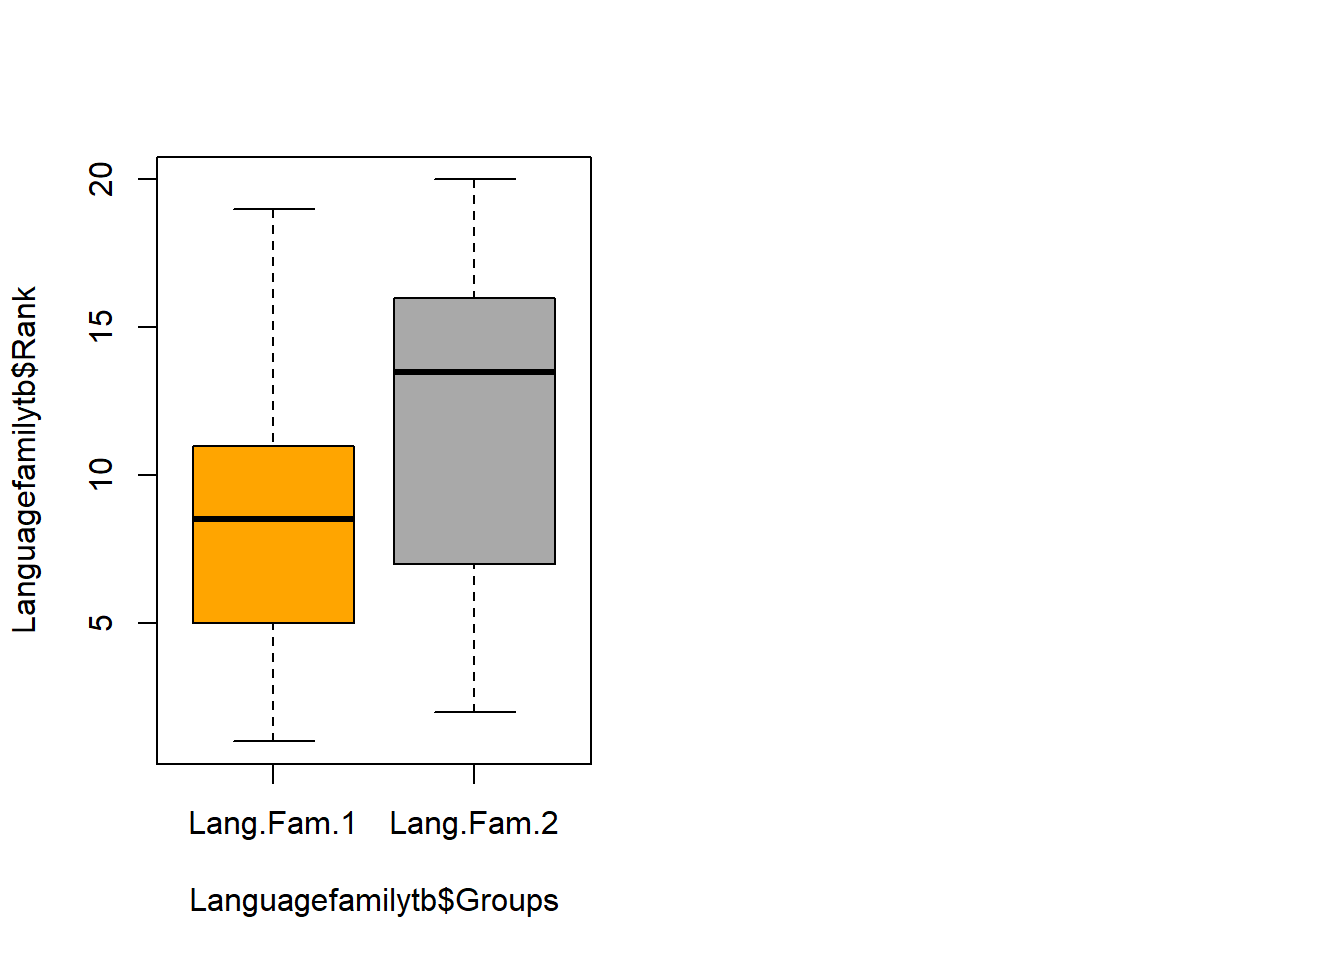
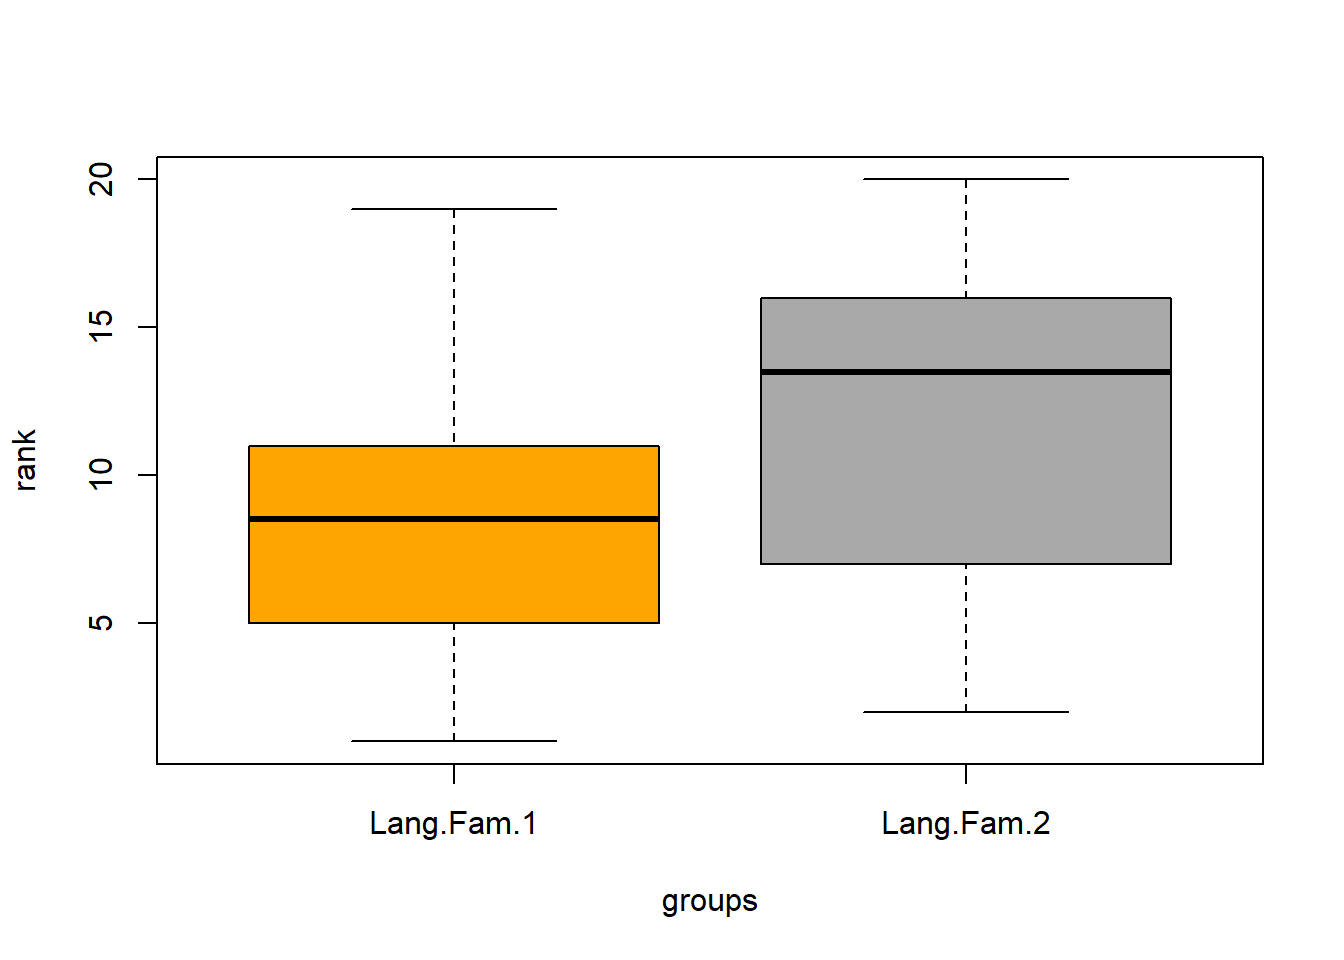
basic stats full update

diff --git a/basicstatz.html b/basicstatz.html
@@ -1,18 +1,17 @@
 <!DOCTYPE html>
 
-<html xmlns="http://www.w3.org/1999/xhtml">
+<html>
 
 <head>
 
 <meta charset="utf-8" />
-<meta http-equiv="Content-Type" content="text/html; charset=utf-8" />
 <meta name="generator" content="pandoc" />
 <meta http-equiv="X-UA-Compatible" content="IE=EDGE" />
 
 
 <meta name="author" content="UQ SLC Digital Team" />
 
-<meta name="date" content="2020-04-15" />
+<meta name="date" content="2020-08-07" />
 
 <title>Basic Inferential Statistics with R</title>
 
@@ -239,6 +238,7 @@ $(document).ready(function () {
   border: none;
   display: inline-block;
   border-radius: 4px;
+  background-color: transparent;
 }
 
 .tabset-dropdown > .nav-tabs.nav-tabs-open > li {
@@ -369,7 +369,7 @@ div.tocify {
       <a href="introquant.html">Introduction To Quantitative Reasoning</a>
     </li>
     <li>
-      <a href="basicquant.html">Basic Concepts In Quantitative Reasoning</a>
+      <a href="basicquant.html">Basic Concepts In Quantitative Research</a>
     </li>
   </ul>
 </li>
@@ -411,7 +411,7 @@ div.tocify {
       <a href="basicgraphs.html">Visualizing Data with R</a>
     </li>
     <li>
-      <a href="maps.html">Geo-Spatial Data Visualization in R</a>
+      <a href="maps.html">Creating maps using R</a>
     </li>
     <li>
       <a href="motion.html">Motion Charts in R</a>
@@ -513,7 +513,7 @@ div.tocify {
 
 <h1 class="title toc-ignore">Basic Inferential Statistics with R</h1>
 <h4 class="author">UQ SLC Digital Team</h4>
-<h4 class="date">2020-04-15</h4>
+<h4 class="date">2020-08-07</h4>
 
 </div>
 
@@ -521,16 +521,12 @@ div.tocify {
 <p><img src="images/uq1.jpg" width="100%" /></p>
 <div id="introduction" class="section level1">
 <h1><span class="header-section-number">1</span> Introduction</h1>
-<p>This tutorial introduces basic statistical techniques for inferential statistics for hypothesis testing with R. The entire code for the tutorial can be downloaded <a href="https://slcladal.github.io/rscripts/basicstatzrscript.r">here</a>. The first part of this tutorial focuses on basic non-parametric tests such as Fisher’s Exact test while the second part introduces parametric tests such as the t-test.</p>
-<p>Non-Parametric Tests do not require the data (or the errors of the dependent variable, to be more precise) to be distributed normally. Tests that do not require normal data are referred to as <em>non-parametric tests</em> (test that require the data to be distributed normally are analogously called <em>parametric tests</em>). We focus on non-parametric tests first as this family of test in frequently used in linguistics. In the later part of this section, we will focus on regression modelling where assumptions of about the data become more important.</p>
+<p>This tutorial introduces the basic statistical techniques for inferential statistics for hypothesis testing with R. The entire code for the tutorial can be downloaded <a href="https://slcladal.github.io/rscripts/basicstatzrscript.r">here</a>. The first part of this tutorial focuses on basic non-parametric tests such as Fisher’s Exact test while the second part introduces parametric tests such as the t-test.</p>
+<p>Non-Parametric Tests do not require the data (or the errors of the dependent variable, to be more precise) to be distributed normally. Tests that do not require normal data are referred to as <em>non-parametric tests</em> (tests that require the data to be distributed normally are analogously called <em>parametric tests</em>). We focus on non-parametric tests first, as this family of test in frequently used in linguistics. In the later part of this section, we will focus on regression modelling where assumptions of about the data become more important.</p>
 <p><strong>Preparation and session set up</strong></p>
 <p>As all visualizations in this tutorial rely on R, it is necessary to install R and RStudio. If these programs (or, in the case of R, environments) are not already installed on your machine, please search for them in your favorite search engine and add the term “download”. Open any of the first few links and follow the installation instructions (they are easy to follow, do not require any specifications, and are pretty much self-explanatory).</p>
 <p>In addition, certain <em>packages</em> need to be installed from an R <em>library</em> so that the scripts shown below are executed without errors. Before turning to the code below, please install the packages by running the code below this paragraph. If you have already installed the packages mentioned below, then you can skip ahead ignore this section. To install the necessary packages, simply run the following code - it may take some time (between 1 and 5 minutes to install all of the libraries so you do not need to worry if it takes some time).</p>
-<pre class="r"><code># clean current workspace
-rm(list=ls(all=T))
-# set options
-options(stringsAsFactors = F)
-# install libraries
+<pre class="r"><code># install libraries
 install.packages(c(&quot;stringr&quot;, &quot;VGAM&quot;, &quot;fGarch&quot;))</code></pre>
 <p>Once you have installed R, R-Studio, and have also initiated the session by executing the code shown above, you are good to go.</p>
 </div>
@@ -567,19 +563,21 @@ kable(coolmatrix, caption = &quot;Co-occurrence of cool with adverbs.&quot;)</co
 </table>
 <p>To perform a Fisher’s Exact test, we first need to create a table with these results in “R”.</p>
 <pre class="r"><code># create table
-coolmx &lt;- matrix(c(5, 17, 40, 41),
-                 # number of rows of the table
-                 nrow = 2,
-                 # def. dimension names
-                 dimnames = list(Adverbs = c(&quot;truly&quot;, &quot;very&quot;),
-                                 Adjectives = c(&quot;cool&quot;, &quot;other adjective&quot;)))
+coolmx &lt;- matrix(
+  c(5, 17, 40, 41),
+  nrow = 2, # number of rows of the table
+  # def. dimension names
+  dimnames = list(
+    Adverbs = c(&quot;truly&quot;, &quot;very&quot;),
+    Adjectives = c(&quot;cool&quot;, &quot;other adjective&quot;))
+)
 # inspect resulting table
 coolmx</code></pre>
 <pre><code>##        Adjectives
 ## Adverbs cool other adjective
 ##   truly    5              40
 ##   very    17              41</code></pre>
-<p>Once we have the created a matrix with these numbers, we can perform the Fisher’s Exact test to see if “very” and “truly” differ in their preference to co-occur with “cool.”</p>
+<p>Once we have the created a matrix with these numbers, we can perform the Fisher’s Exact test to see if “very” and “truly” differ in their preference to co-occur with “cool”. The null hypothesis is that there is no difference between the adverbs.</p>
 <pre class="r"><code># perform test
 fisher.test(coolmx)</code></pre>
 <pre><code>## 
@@ -593,7 +591,7 @@ fisher.test(coolmx)</code></pre>
 ## sample estimates:
 ## odds ratio 
 ##  0.3048159</code></pre>
-<p>The results of the Fisher’s Exact test show that the p-value is lower than .05 and that we are therefor justified in assuming that “very” and “truly” differ in their collocational preferences to co-occur with “cool.”</p>
+<p>The results of the Fisher’s Exact test show that the p-value is lower than .05, which means we reject the null hypothesis, and we are therefore justified in assuming that “very” and “truly” differ in their collocational preferences to co-occur with “cool.”</p>
 </div>
 <div id="ranking-and-sign-based-non-parametric-tests" class="section level1">
 <h1><span class="header-section-number">3</span> Ranking and Sign-Based Non-Parametric Tests</h1>
@@ -601,16 +599,15 @@ fisher.test(coolmx)</code></pre>
 </div>
 <div id="mann-whitney-u-test-wilcoxon-rank-sum-test" class="section level1">
 <h1><span class="header-section-number">4</span> Mann-Whitney U-Test / Wilcoxon Rank Sum-Test</h1>
-<p>It is a rather frequent case that numeric depend variables are transformed or converted into ordinal variables because the distribution of residuals does not allow the application of a linear regression. Because we are dealing with ordinal data, the application of a chi-square test is unwarranted and we need to use another test. In such cases, the Mann-Whitney U-test (also called Wilcoxon rank sum-test) can be used.</p>
-<p>The Mann-Whitney U-test can also be used if the groups under investigation represent identical participants that are tested under two conditions.</p>
-<p>Imaging we wanted to determine if two language families differed with respect to the size of their phoneme inventories. You have already ranked the inventory sizes and would now like to now if language family correlates with inventory size. To answer this question, you create the table shown below.</p>
+<p>It is a rather frequent case that numeric depend variables are transformed or converted into ordinal variables because the distribution of residuals does not allow the application of a linear regression. Because we are dealing with ordinal data, the application of a chi-square test is unwarranted and we need to use another test. In such cases, the Mann-Whitney U-test (also called Wilcoxon rank sum-test) can be used. The Mann-Whitney U-test can also be used if the groups under investigation represent identical participants that are tested under two conditions.</p>
+<p>Imagine we wanted to determine if two language families differed with respect to the size of their phoneme inventories. You have already ranked the inventory sizes and would now like to now if language family correlates with inventory size. To answer this question, you create the table shown below.</p>
 <pre class="r"><code># create table
-Rank &lt;- c(1,3,5,6,8,9,10,11,17,19, 2,4,7,12,13,14,15,16,18,20)
-Groups &lt;- c(rep(&quot;Lang.Fam.1&quot;, 10), rep(&quot;Lang.Fam.2&quot;, 10))
-Languagefamilytb &lt;- data.frame(Groups, Rank)
+rank &lt;- c(1,3,5,6,8,9,10,11,17,19, 2,4,7,12,13,14,15,16,18,20)
+groups &lt;- c(rep(&quot;Lang.Fam.1&quot;, 10), rep(&quot;Lang.Fam.2&quot;, 10))
+language_family_tb &lt;- data.frame(groups, rank)
 # inspect table
-Languagefamilytb</code></pre>
-<pre><code>##        Groups Rank
+language_family_tb</code></pre>
+<pre><code>##        groups rank
 ## 1  Lang.Fam.1    1
 ## 2  Lang.Fam.1    3
 ## 3  Lang.Fam.1    5
@@ -633,126 +630,125 @@ Languagefamilytb</code></pre>
 ## 20 Lang.Fam.2   20</code></pre>
 <p>We will also briefly inspect the data visually using a box plot.</p>
 <pre class="r"><code># inspect data
-par(mfrow=c(1,2))
-boxplot(Languagefamilytb$Rank ~ Languagefamilytb$Groups, col = c(&quot;orange&quot;, &quot;darkgrey&quot;), main = &quot;&quot;)
-par(mfrow=c(1,1))</code></pre>
+boxplot(rank ~ groups, col = c(&quot;orange&quot;, &quot;darkgrey&quot;), main = &quot;&quot;, data = language_family_tb)</code></pre>
 <p><img src="basicstatz_files/figure-html/mwu2-1.png" width="672" /></p>
 <p>To use Mann-Whitney U test, the dependent variable (Rank) must be ordinal and independent variable (Group) must be a binary factor. We briefly check this by inspecting the structure of the data.</p>
 <pre class="r"><code># perform test
-str(Languagefamilytb) </code></pre>
+str(language_family_tb)</code></pre>
 <pre><code>## &#39;data.frame&#39;:    20 obs. of  2 variables:
-##  $ Groups: Factor w/ 2 levels &quot;Lang.Fam.1&quot;,&quot;Lang.Fam.2&quot;: 1 1 1 1 1 1 1 1 1 1 ...
-##  $ Rank  : num  1 3 5 6 8 9 10 11 17 19 ...</code></pre>
-<p>As the variables are what we need them to be, we can now perform the Mann-Whitney U test on the table.</p>
+##  $ groups: chr  &quot;Lang.Fam.1&quot; &quot;Lang.Fam.1&quot; &quot;Lang.Fam.1&quot; &quot;Lang.Fam.1&quot; ...
+##  $ rank  : num  1 3 5 6 8 9 10 11 17 19 ...</code></pre>
+<p>As the variables are what we need them to be, we can now perform the Mann-Whitney U test on the table. The null hypothesis is that there is no difference between the 2 groups.</p>
 <pre class="r"><code># perform test
-wilcox.test(Languagefamilytb$Rank ~ Languagefamilytb$Groups) </code></pre>
+wilcox.test(language_family_tb$rank ~ language_family_tb$groups) </code></pre>
 <pre><code>## 
-##  Wilcoxon rank sum test
+##  Wilcoxon rank sum exact test
 ## 
-## data:  Languagefamilytb$Rank by Languagefamilytb$Groups
+## data:  language_family_tb$rank by language_family_tb$groups
 ## W = 34, p-value = 0.2475
 ## alternative hypothesis: true location shift is not equal to 0</code></pre>
-<p>The results of the Wilcoxon rank sum test tell use that the two language families to not differ significantly with respect to their phoneme inventory size as the p-value is greater than .05.</p>
+<p>Since the p-value is greater than 0.05, we fail to reject the null hypothesis. The results of the Wilcoxon rank sum test tell us that the two language families do not differ significantly with respect to their phoneme inventory size.</p>
 <p>The Wilcoxon rank sum test can also be used with continuity correction. A continuity correction is necessary when both variables represent numeric values that are non-normal. In the following example, we want to test if the reaction time for identifying a word as real is correlated with its token frequency.</p>
 <p>For this example, we generate data is deliberately non-normal.</p>
 <pre class="r"><code># load librarieslibrary(VGAM)
 library(fGarch)
 # generate non-normal skewed numeric data
-r=.1 
-Frequency=rsnorm(100,0,2,4)
-NormalReaction=rsnorm(100,0,2,4)
-ReactionTimes=Frequency*r+NormalReaction*sqrt(1-r^2)
+r &lt;- .1 
+frequency &lt;- rsnorm(100,0,2,4)
+normal_reaction &lt;- rsnorm(100,0,2,4)
+reaction_times &lt;- frequency*r+normal_reaction*sqrt(1-r^2)
 # inspect data
 par(mfrow=c(1,2))
-boxplot(Frequency, col = &quot;orange&quot;, main = &quot;Frequency&quot;)
-boxplot(ReactionTimes, col = &quot;darkgrey&quot;, main = &quot;Reaction Times&quot;)</code></pre>
+boxplot(frequency, col = &quot;orange&quot;, main = &quot;Frequency&quot;)
+boxplot(reaction_times, col = &quot;darkgrey&quot;, main = &quot;Reaction Times&quot;)</code></pre>
 <p><img src="basicstatz_files/figure-html/mwu5-1.png" width="672" /></p>
 <pre class="r"><code>par(mfrow=c(1,1))</code></pre>
-<p>Both variables are skewed but we can use the Wilcoxon rank sum test with continuity correction which takes the skewness into account.</p>
+<p>Both variables are skewed but we can use the Wilcoxon rank sum test with continuity correction which takes the skewness into account. The null hypothesis is that there is no difference between the 2 groups.</p>
 <pre class="r"><code># perform test
-wilcox.test(ReactionTimes, Frequency) </code></pre>
+wilcox.test(reaction_times, frequency) </code></pre>
 <pre><code>## 
 ##  Wilcoxon rank sum test with continuity correction
 ## 
-## data:  ReactionTimes and Frequency
-## W = 4023, p-value = 0.01703
+## data:  reaction_times and frequency
+## W = 5204, p-value = 0.619
 ## alternative hypothesis: true location shift is not equal to 0</code></pre>
+<p>The p-value is greater than 0.05, therefore we fail to reject the null hypothesis. There is no statistically significant evidence to assume the groups are different.</p>
 <p>When performing the Wilcoxon rank sum test with data that represent the same individuals that were tested under two condition, i.e. if the samples are dependent, then the argument “paired” has to be “TRUE”.</p>
 <p>In this example, the same individuals had to read tongue twisters when they were sober and when they were intoxicated. A Wilcoxon signed rank test with continuity correction is used to test if the number of errors that occur when reading tongue twisters correlates with being sober/intoxicated. Again, we create fictitious data.</p>
 <pre class="r"><code># create data
-Sober &lt;- sample(0:9, 15, replace = T)
-Intoxicated &lt;-  sample(3:12, 15, replace = T) 
+sober &lt;- sample(0:9, 15, replace = T)
+intoxicated &lt;-  sample(3:12, 15, replace = T) 
 # tabulate data
-intoxtb &lt;- data.frame(Sober, Intoxicated) 
+intoxtb &lt;- data.frame(sober, intoxicated) 
 # inspect data
 str(intoxtb)</code></pre>
 <pre><code>## &#39;data.frame&#39;:    15 obs. of  2 variables:
-##  $ Sober      : int  2 6 8 9 8 9 4 3 5 2 ...
-##  $ Intoxicated: int  5 4 10 6 3 12 11 3 11 4 ...</code></pre>
+##  $ sober      : int  0 6 0 4 1 6 5 7 4 1 ...
+##  $ intoxicated: int  9 9 9 4 5 3 11 9 10 6 ...</code></pre>
 <p>Now, we briefly plot the data.</p>
-<pre class="r"><code># inspect data
-boxplot(intoxtb$Sober, intoxtb$Intoxicated, col = c(&quot;orange&quot;, &quot;darkgrey&quot;), main = &quot;&quot;, ylab = &quot;Number of errors&quot;, xlab = &quot;State&quot;, data = intoxtb)</code></pre>
+<pre class="r"><code># plot data
+boxplot(sober, intoxicated, col = c(&quot;orange&quot;, &quot;darkgrey&quot;), main = &quot;&quot;, ylab = &quot;Number of errors&quot;, xlab = &quot;State&quot;, data = intoxtb)</code></pre>
 <p><img src="basicstatz_files/figure-html/mwu8-1.png" width="672" /></p>
-<p>The boxes indicate a significant difference. Finally, we perform the Wilcoxon signed rank test with continuity correction,</p>
+<p>The boxes indicate a significant difference. Finally, we perform the Wilcoxon signed rank test with continuity correction. The null hypothesis is that the two groups are the same.</p>
 <pre class="r"><code># perform test
-wilcox.test(intoxtb$Sober, intoxtb$Intoxicated, paired=T) </code></pre>
+wilcox.test(intoxtb$sober, intoxtb$intoxicated, paired=T) </code></pre>
 <pre><code>## 
 ##  Wilcoxon signed rank test with continuity correction
 ## 
-## data:  intoxtb$Sober and intoxtb$Intoxicated
-## V = 26, p-value = 0.1822
+## data:  intoxtb$sober and intoxtb$intoxicated
+## V = 4.5, p-value = 0.007556
 ## alternative hypothesis: true location shift is not equal to 0</code></pre>
-<p>The p-value is lower than .05 which means that the number of errors when reading tongue twisters is affected by one’s state (sober/intoxicated) - at least in this fictitious example.</p>
+<p>The p-value is lower than 0.05 (rejecting the null hypothesis) which means that the number of errors when reading tongue twisters is affected by one’s state (sober/intoxicated) - at least in this fictitious example.</p>
 </div>
 <div id="kruskal-wallis-rank-sum-test" class="section level1">
 <h1><span class="header-section-number">5</span> Kruskal-Wallis Rank Sum Test</h1>
-<p>The Kruskal-Wallis rank sum test is a type of ANOVA (Analysis of Variance). For this reason, the Kruskal Wallis Test is also refered to as a “one-way Anova by ranks” which can not only handle numeric but also ordinal data.</p>
+<p>The Kruskal-Wallis rank sum test is a type of ANOVA (Analysis of Variance). For this reason, the Kruskal Wallis Test is also referred to as a “one-way Anova by ranks” which can handle numeric and ordinal data.</p>
 <p>In the example below, <em>uhm</em> represents the number of filled pauses in a short 5 minute interview while speaker represents whether the speaker was a native speaker or a learner of English. As before, the data is generated and thus artificial.</p>
 <pre class="r"><code># create data
-Uhms &lt;- c(15, 13, 10, 8, 37, 23, 31, 52, 11, 17)
-Speaker &lt;- c(rep(&quot;Learner&quot;, 5), rep(&quot;NativeSpeaker&quot;, 5))
+uhms &lt;- c(15, 13, 10, 8, 37, 23, 31, 52, 11, 17)
+speaker &lt;- c(rep(&quot;Learner&quot;, 5), rep(&quot;NativeSpeaker&quot;, 5))
 # create table
-uhmtb &lt;- data.frame(Speaker, Uhms)
+uhmtb &lt;- data.frame(speaker, uhms)
 # inspect table
 str(uhmtb)</code></pre>
 <pre><code>## &#39;data.frame&#39;:    10 obs. of  2 variables:
-##  $ Speaker: Factor w/ 2 levels &quot;Learner&quot;,&quot;NativeSpeaker&quot;: 1 1 1 1 1 2 2 2 2 2
-##  $ Uhms   : num  15 13 10 8 37 23 31 52 11 17</code></pre>
+##  $ speaker: chr  &quot;Learner&quot; &quot;Learner&quot; &quot;Learner&quot; &quot;Learner&quot; ...
+##  $ uhms   : num  15 13 10 8 37 23 31 52 11 17</code></pre>
 <p>Now, we briefly plot the data.</p>
 <pre class="r"><code># inspect data
-boxplot(uhmtb$Uhms ~ uhmtb$Speaker, col = c(&quot;orange&quot;, &quot;darkgrey&quot;), main = &quot;&quot;, ylab = &quot;Number of errors&quot;, xlab = &quot;State&quot;)</code></pre>
+boxplot(uhms ~ speaker, col = c(&quot;orange&quot;, &quot;darkgrey&quot;), main = &quot;&quot;, ylab = &quot;Number of errors&quot;, xlab = &quot;State&quot;, data = uhmtb)</code></pre>
 <p><img src="basicstatz_files/figure-html/kwt2-1.png" width="672" /></p>
-<p>Now, we test for statistical significance.</p>
-<pre class="r"><code>kruskal.test(uhmtb$Speaker~uhmtb$Uhms) </code></pre>
+<p>Now, we test for statistical significance. The null hypothesis is that there is no difference between the groups.</p>
+<pre class="r"><code>kruskal.test(uhmtb$speaker~uhmtb$uhms) </code></pre>
 <pre><code>## 
 ##  Kruskal-Wallis rank sum test
 ## 
-## data:  uhmtb$Speaker by uhmtb$Uhms
+## data:  uhmtb$speaker by uhmtb$uhms
 ## Kruskal-Wallis chi-squared = 9, df = 9, p-value = 0.4373</code></pre>
-<p>The Kruskal-Wallis test does not report a significant difference for the number of “uhms” produced by native speakers and learners of English in the ficticious data.</p>
+<p>The p-value is greater than 0.05, therefore we fail to reject the null hypothesis. The Kruskal-Wallis test does not report a significant difference for the number of “uhms” produced by native speakers and learners of English in the fictitious data.</p>
 </div>
 <div id="the-friedman-rank-sum-test" class="section level1">
 <h1><span class="header-section-number">6</span> The Friedman Rank Sum Test</h1>
 <p>The Friedman rank sum test is also called a randomized block design and it is used when the correlation between a numeric dependent variable, a grouping factor and a blocking factor is tested. The Friedman rank sum test assumes that each combination of the grouping factor (Gender) and the blocking factor (Age) occur only once. Thus, imagine that the values of “Uhms” represent the means of the respective groups.</p>
 <pre class="r"><code># create data
-Uhms &lt;- c(7.2, 9.1, 14.6, 13.8)
-Gender &lt;- c(&quot;Female&quot;, &quot;Male&quot;, &quot;Female&quot;, &quot;Male&quot;)
-Age &lt;- c(&quot;Young&quot;, &quot;Young&quot;, &quot;Old&quot;, &quot;Old&quot;)
+uhms &lt;- c(7.2, 9.1, 14.6, 13.8) #sample means
+gender &lt;- c(&quot;Female&quot;, &quot;Male&quot;, &quot;Female&quot;, &quot;Male&quot;)
+age &lt;- c(&quot;Young&quot;, &quot;Young&quot;, &quot;Old&quot;, &quot;Old&quot;)
 # create table
-uhmtb2 &lt;- data.frame(Gender, Age, Uhms)
+uhmtb2 &lt;- data.frame(gender, age, uhms)
 # inspect table
 uhmtb2</code></pre>
-<pre><code>##   Gender   Age Uhms
+<pre><code>##   gender   age uhms
 ## 1 Female Young  7.2
 ## 2   Male Young  9.1
 ## 3 Female   Old 14.6
 ## 4   Male   Old 13.8</code></pre>
 <pre class="r"><code># perform Friedman test
-friedman.test(Uhms ~ Age | Gender, data = uhmtb2)</code></pre>
+friedman.test(uhms ~ age | gender, data = uhmtb2)</code></pre>
 <pre><code>## 
 ##  Friedman rank sum test
 ## 
-## data:  Uhms and Age and Gender
+## data:  uhms and age and gender
 ## Friedman chi-squared = 2, df = 1, p-value = 0.1573</code></pre>
 <p>In our example, age does not affect the use of filled pauses even if we control for gender as the p-value is higher than .05.</p>
 </div>
@@ -814,7 +810,7 @@ $(document).ready(function ()  {
       theme: "bootstrap3",
       context: '.toc-content',
       hashGenerator: function (text) {
-        return text.replace(/[.\\/?&!#<>]/g, '').replace(/\s/g, '_').toLowerCase();
+        return text.replace(/[.\\/?&!#<>]/g, '').replace(/\s/g, '_');
       },
       ignoreSelector: ".toc-ignore",
       scrollTo: 0

diff --git a/site_libs/navigation-1.1/codefolding.js b/site_libs/navigation-1.1/codefolding.js
@@ -17,13 +17,13 @@ window.initializeCodeFolding = function(show) {
   var currentIndex = 1;
 
   // select all R code blocks
-  var rCodeBlocks = $('pre.r, pre.python, pre.bash, pre.sql, pre.cpp, pre.stan, pre.julia');
+  var rCodeBlocks = $('pre.r, pre.python, pre.bash, pre.sql, pre.cpp, pre.stan, pre.julia, pre.foldable');
   rCodeBlocks.each(function() {
 
     // create a collapsable div to wrap the code in
     var div = $('<div class="collapse r-code-collapse"></div>');
-    if (show || $(this)[0].classList.contains('fold-show'))
-      div.addClass('in');
+    show = (show || $(this).hasClass('fold-show')) && !$(this).hasClass('fold-hide');
+    if (show) div.addClass('in');
     var id = 'rcode-643E0F36' + currentIndex++;
     div.attr('id', id);
     $(this).before(div);
